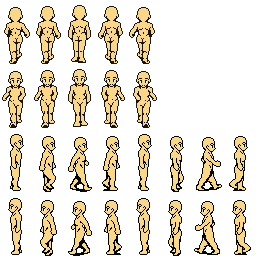
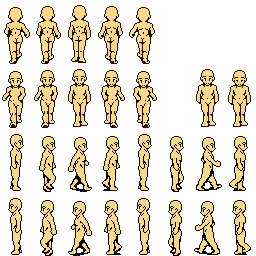
Classe Animation, testAnim

Changed region(s): [[0.75, 0.25, 1.0, 0.5]]

diff --git a/src/com/ks2002br/graficos/Texturas.java b/src/com/ks2002br/graficos/Texturas.java
@@ -10,7 +10,13 @@ public class Texturas {
 		
 	public BufferedImage[] block   = new BufferedImage[4]; //SPRITES DOS BLOCOS
 	public BufferedImage[] enemy = new BufferedImage[2]; //SPRITES DOS BLOCOS
-	public BufferedImage[] player  = new BufferedImage[4]; //SPRITES DO PLAYER
+	public BufferedImage[] player_idle = new BufferedImage[2]; //SPRITES DO PLAYER PARADO
+	
+	public BufferedImage[] playerUp      = new BufferedImage[5]; // SPRITES DO PLAYER SUBINDO
+	public BufferedImage[] playerDown = new BufferedImage[5]; // SPRITES DO PLAYER DESCENDO
+	public BufferedImage[] playerLeft    = new BufferedImage[8]; // SPRITES DO PLAYER ESQUERDA
+	public BufferedImage[] playerRight  = new BufferedImage[8]; // SPRITES DO PLAYER DIREITA
+	
 	
 	public Texturas() {
 		CarregarImagem loader = new CarregarImagem();
@@ -44,10 +50,42 @@ public class Texturas {
 		enemy[1] = enemySheet.pegarSpriteColRow(2, 1, 32,64); //  Lado 2
 		
 		//PLAYER
-		player[0] = playerSheet.pegarSpriteColRow(1, 1, 32,64); //CIMA
-		player[1] = playerSheet.pegarSpriteColRow(1, 2, 32,64);//BAIXO
-		player[2] = playerSheet.pegarSpriteColRow(1, 3, 32,64);//ESQ
-		player[3] = playerSheet.pegarSpriteColRow(1, 4, 32,64);//DIR
+		
+		playerUp[0] = playerSheet.pegarSpriteColRow(1, 1, 32, 64);
+		playerUp[1] = playerSheet.pegarSpriteColRow(2, 1, 32, 64);
+		playerUp[2] = playerSheet.pegarSpriteColRow(3, 1, 32, 64);
+		playerUp[3] = playerSheet.pegarSpriteColRow(4, 1, 32, 64);
+		playerUp[4] = playerSheet.pegarSpriteColRow(5, 1, 32, 64);
+
+		// PLAYER DOWN
+		playerDown[0] = playerSheet.pegarSpriteColRow(1, 2, 32, 64);
+		playerDown[1] = playerSheet.pegarSpriteColRow(2, 2, 32, 64);
+		playerDown[2] = playerSheet.pegarSpriteColRow(3, 2, 32, 64);
+		playerDown[3] = playerSheet.pegarSpriteColRow(4, 2, 32, 64);
+		playerDown[4] = playerSheet.pegarSpriteColRow(5, 2, 32, 64);
+
+		// PLAYER LEFT
+		playerLeft[0] = playerSheet.pegarSpriteColRow(1, 3, 32, 64);
+		playerLeft[1] = playerSheet.pegarSpriteColRow(2, 3, 32, 64);
+		playerLeft[2] = playerSheet.pegarSpriteColRow(3, 3, 32, 64);
+		playerLeft[3] = playerSheet.pegarSpriteColRow(4, 3, 32, 64);
+		playerLeft[4] = playerSheet.pegarSpriteColRow(5, 3, 32, 64);
+		playerLeft[5] = playerSheet.pegarSpriteColRow(6, 3, 32, 64);
+		playerLeft[6] = playerSheet.pegarSpriteColRow(7, 3, 32, 64);
+		playerLeft[7] = playerSheet.pegarSpriteColRow(8, 3, 32, 64);
+
+		// PLAYER RIGHT
+		playerRight[0] = playerSheet.pegarSpriteColRow(1, 4, 32, 64);
+		playerRight[1] = playerSheet.pegarSpriteColRow(2, 4, 32, 64);
+		playerRight[2] = playerSheet.pegarSpriteColRow(3, 4, 32, 64);
+		playerRight[3] = playerSheet.pegarSpriteColRow(4, 4, 32, 64);
+		playerRight[4] = playerSheet.pegarSpriteColRow(5, 4, 32, 64);
+		playerRight[5] = playerSheet.pegarSpriteColRow(6, 4, 32, 64);
+		playerRight[6] = playerSheet.pegarSpriteColRow(7, 4, 32, 64);
+		playerRight[7] = playerSheet.pegarSpriteColRow(8, 4, 32, 64);
+		
+		player_idle[0] = playerSheet.pegarSpriteColRow(7, 2, 32,64); //FRAME 01
+		player_idle[1] = playerSheet.pegarSpriteColRow(8, 2, 32,64); //FRAME 02
 		
 	}
 	

diff --git a/src/com/ks2002br/entities/TestAnim.java b/src/com/ks2002br/entities/TestAnim.java
@@ -1,0 +1,54 @@
+package com.ks2002br.entities;
+
+import java.awt.Graphics;
+import java.awt.Rectangle;
+import java.util.LinkedList;
+
+import com.ks2002br.frameworks.Animation;
+import com.ks2002br.frameworks.GameObject;
+import com.ks2002br.frameworks.ObjectId;
+import com.ks2002br.graficos.Texturas;
+
+public class TestAnim extends GameObject{
+	
+	private Texturas tex = new Texturas();
+	
+	private Animation animIdle; // FRAMES IDLE
+	private Animation animCima, animBaixo;  //FRAMES UP/DOWN
+	private Animation animEsq, animDir;		//FRAMES LEFT/RIGHT
+
+	public TestAnim(float x, float y, ObjectId id) {
+		super(x, y, id);	
+		
+		animIdle    = new Animation(10,tex.player_idle);
+		animCima  = new Animation(15, tex.playerUp);	 
+		animBaixo = new Animation(15, tex.playerDown);	
+		animEsq    = new Animation(15, tex.playerLeft);	
+		animDir      = new Animation(10, tex.playerRight);
+		
+	}
+
+	@Override
+	public void tick(LinkedList<GameObject> obj) {
+		animCima.runAnimation();  //EXECUTANDO ANIMACAO
+		animBaixo.runAnimation();
+		animEsq.runAnimation();
+		animDir.runAnimation();
+		animIdle.runAnimation();
+	}
+
+	@Override
+	public void render(Graphics g) {
+		animIdle.renderAnimation(g, (int) x, (int) y, 128, 256);
+		animCima.renderAnimation(g, 160, 60,128,256); // REDERIZANDO ANIMACAO
+		animBaixo.renderAnimation(g, 260, 60,128,256);
+		animEsq.renderAnimation(g, 360, 60,128,256);
+		animDir.renderAnimation(g, 460, 60,128,256);		
+	}
+
+	@Override
+	public Rectangle getBounds() {
+		return null;
+	}
+
+}

diff --git a/src/com/ks2002br/game/Game.java b/src/com/ks2002br/game/Game.java
@@ -6,6 +6,9 @@ package com.ks2002br.game;
 import java.awt.*;
 import java.awt.image.*;
 import javax.swing.JFrame;
+
+import com.ks2002br.entities.TestAnim;
+import com.ks2002br.frameworks.Animation;
 import com.ks2002br.frameworks.GameController;
 import com.ks2002br.frameworks.ObjectId;
 import com.ks2002br.graficos.CarregarImagem;
@@ -32,6 +35,10 @@ public class Game extends Canvas implements Runnable {
 	private World world;
 	private Camera cam;
 	private static Texturas tex;
+	
+	
+	private TestAnim testAnim;
+	
 
 	// CONTRUTOR DA CLASSE
 	public Game() {
@@ -48,6 +55,8 @@ public class Game extends Canvas implements Runnable {
 		
 		CarregarImagem mapa = new CarregarImagem();
 		tex = new Texturas();
+		
+		testAnim = new TestAnim(40, 60, null);
 		
 		level = mapa.pegarImagem("/mapa-01.png");
 		world = new World(level, gc);
@@ -123,6 +132,9 @@ public class Game extends Canvas implements Runnable {
 			}
 		}
 		
+		
+		testAnim.tick(null);
+		
 	}
 
 	private void render() {
@@ -147,6 +159,9 @@ public class Game extends Canvas implements Runnable {
 		gc.draw(g2d);
 		
 		g2d.translate(-cam.getCamX(),-cam.getCamY()); // CAMERA FIM 
+		
+		
+		testAnim.render(g2d);
 
 		// FINAL DO OBJETOS A SEREM DESENHADOS
 		bs.show(); // MOSTRAR TUDO QUE O PINTOR DESENHOU

diff --git a/src/com/ks2002br/entities/Player.java b/src/com/ks2002br/entities/Player.java
@@ -29,8 +29,7 @@ public class Player extends GameObject {
 
 	public void tick(LinkedList<GameObject> obj) {
 		x += spdX;
-		y += spdY;		
-		
+		y += spdY;			
 
 		//esq/dir
 		if(spdX > 0 ) tipo=2;
@@ -44,10 +43,8 @@ public class Player extends GameObject {
 			if(spdY > MAX_SPD) spdY = MAX_SPD;
 		}
 			
-		verificarColisao(obj);	
-		
-		System.out.println("spdX ="+spdX);
-		System.out.println("spdY = "+spdY);
+		verificarColisao(obj);		
+
 	}
 
 
@@ -100,10 +97,10 @@ public class Player extends GameObject {
 		//g.setColor(Color.white);
 	//	g.fillRect((int) x, (int) y, width, height);
 		
-		if(tipo== 0) g.drawImage(tex.player[0],(int) x,(int) y,null);
-		if(tipo== 1) g.drawImage(tex.player[1],(int) x,(int) y,null);
-		if(tipo== 2) g.drawImage(tex.player[2],(int) x,(int) y,null);
-		if(tipo== 3) g.drawImage(tex.player[3],(int) x,(int) y,null);		
+	//	if(tipo== 0) g.drawImage(tex.player[0],(int) x,(int) y,null);
+	//	if(tipo== 1) g.drawImage(tex.player[1],(int) x,(int) y,null);
+	//	if(tipo== 2) g.drawImage(tex.player[2],(int) x,(int) y,null);
+	//	if(tipo== 3) g.drawImage(tex.player[3],(int) x,(int) y,null);		
 
 		Graphics2D g2d = (Graphics2D) g;
 

diff --git a/src/com/ks2002br/frameworks/Animation.java b/src/com/ks2002br/frameworks/Animation.java
@@ -1,0 +1,48 @@
+package com.ks2002br.frameworks;
+
+import java.awt.Graphics;
+import java.awt.image.BufferedImage;
+
+public class Animation {
+
+	private int speed, frames;
+	private int index = 0, count = 0;
+	
+	private BufferedImage img[] , curImg;
+	
+	public Animation(int spd, BufferedImage... args) {
+		this.speed = spd;
+		this.img = new BufferedImage[args.length];
+		
+		for (int i = 0; i < args.length; i++) {
+			img[i] = args[i];
+		}
+		frames = args.length;
+	}
+	
+	public void runAnimation() {
+		index++;
+		if(index > speed) {
+			index = 0;
+			nextFrame();
+		}
+	}
+
+	private void nextFrame() {
+		for (int i = 0; i < frames; i++) {
+			if(count == i ) 	curImg = img[i];			
+		}
+		count++;
+		if(count > frames) count = 0;		
+	}
+	
+	public void renderAnimation(Graphics g, int x, int y) {
+		g.drawImage(curImg, x, y, null);
+	}
+	
+	public void renderAnimation(Graphics g, int x, int y, int scaleX, int scaleY) {
+		g.drawImage(curImg, x, y, scaleX, scaleY, null);
+	}
+	
+	
+}
